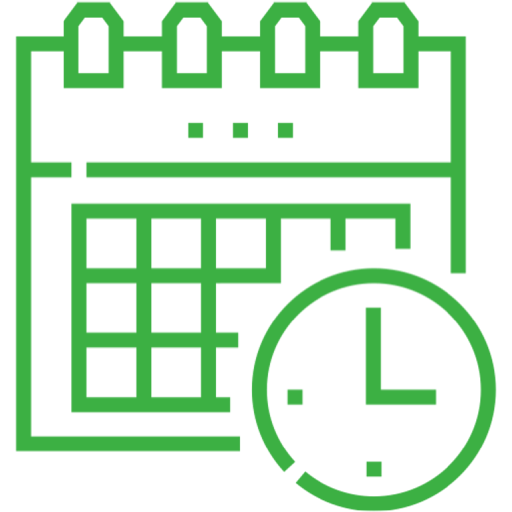
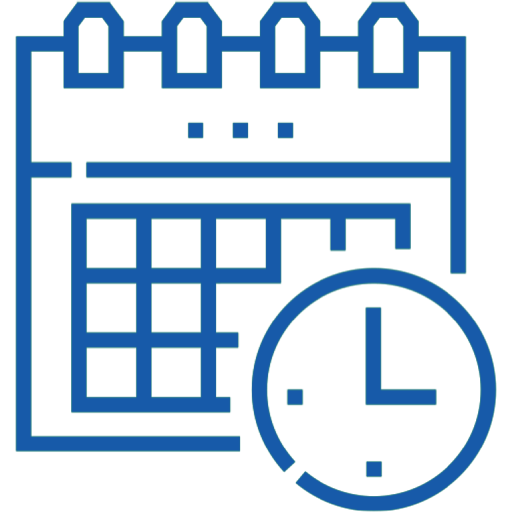
init old - docnote

diff --git a/src/main/webapp/Scripts/Main.js b/src/main/webapp/Scripts/Main.js
@@ -6,10 +6,10 @@ const _GasEnabled = true;
 const _LiveEnabled = true;
 
 //LIVE
-//const _ServiceURL = _GasEnabled ? "https://clinic.medica.lk/API" : "http://api.medica.gq";
+const _ServiceURL = _GasEnabled ? "https://clinic.medica.lk/API" : "http://api.medica.gq";
 
 //TEST
-const _ServiceURL = _LiveEnabled ? "https://ayu-api.medica.lk" : "http://api.medica.gq";
+// const _ServiceURL = _LiveEnabled ? "https://ayu-api.medica.lk" : "http://api.medica.gq";
 
 //File Upload URL
 /*const _FileUploadURL = "https://utilities.mobios.gq/Uploader";*/
@@ -60,7 +60,7 @@ var _AppointmentNumber;
 var _AppointmentDetails;
 var _AppointmentSessionId;
 var _AppointmentPatientId;
-var _AppointmentDoctorName; 
+var _AppointmentDoctorName;
 var _AppointmentPatientName;
 var _ApoointmentHeadingTitle;
 
@@ -83,7 +83,7 @@ var _NurseFirstName;
 const ServiceMethods =
 {
     OTPSend: "OTP/Send",
-    UserPost: "User/Post", 
+    UserPost: "User/Post",
     DoctorGet: "Doctor/Get/",
     SavePatient: "Patient/Save",
     Login: "Authenticate/Login",
@@ -95,7 +95,7 @@ const ServiceMethods =
     SessionGet: "Session/GET/",
     SessionsGet: "Session/GetSessions",
     SessionGetByDate: "Session/GetByDate",
-    NextAppoinment: "Appointment/GetNext", 
+    NextAppoinment: "Appointment/GetNext",
     GetAppoinment: "Appointment/GetAppointment",
     SaveAppoinmnet: "Appointment/Post",
     SaveAnalaytics: "MedicalAnalytic/Save",
@@ -198,25 +198,25 @@ var HideLoader = function ()
 function InitRequestHandler()
 {
     _UserId = getCookie("UserId");
-   
+
     let Headers = new Array();
 
     if (_UserId !== undefined && _UserId !== null && _UserId !== "" && parseInt(_UserId) > 0)
         Headers.push(new HttpHeader("UserId", _UserId));
 
     if (_PatientId !== null && _PatientId !== undefined && _PatientId !== "")
-        Headers.push(new HttpHeader("PatientId", _PatientId));   
+        Headers.push(new HttpHeader("PatientId", _PatientId));
 
     _Request = GetRequest(_ServiceURL, Headers);
 
    //_Request = new Request(_ServiceURL, new Array(), GlobalFail);
- 
+
     _HttpRequestMultiPartWithoutAsync = new HttpRequestMultiPartWithoutAsync(_ServiceURL, new Array(), GlobalFail);
 
     //Comman File Upload-Nurse
-    
+
     _HttpRequestMultiPartWithoutAsync.Headers = _Request.Headers;
-  
+
 }
 
 /*===========================
@@ -250,7 +250,7 @@ function ValidateFields(Selector)
 }
 
 /**
- * 
+ *
  * @param {string} Message
  * @param {MessageTypes} Type
  * @param {string} Title
@@ -298,7 +298,7 @@ function ShowImagePopup(Url)
 		Event Handlers
 ===========================*/
 function Page_Load()
-{   
+{
     Wait(
     function ()
     {

diff --git a/src/main/webapp/dist-assets/css/themes/ChangeColor.css b/src/main/webapp/dist-assets/css/themes/ChangeColor.css
@@ -3,33 +3,33 @@
 }
 
 .btn-primary{
-    background: #3CB043 !important;
+    background: #175aa9 !important;
 }
 
 .btn-info, .btn-outline-info {
-    border-color: #75e07c !important;
-    background: #3CB043 !important;
+    border-color: #7583e0 !important;
+    background: #175aa9 !important;
 }
 
 .btn-primary, .btn-outline-primary {
-    border-color: #75e07c !important;
+    border-color: #7583e0 !important;
 }
 
 .btn-info:hover, .btn-outline-info:hover {
-    background: #75e07c;
-    box-shadow: 0 8px 25px -8px #75e07c;
+    background: #7583e0;
+    box-shadow: 0 8px 25px -8px #7583e0;
 }
 
 .btn-primary:hover, .btn-outline-primary:hover {
-    background: #75e07c;
-    box-shadow: 0 8px 25px -8px #75e07c;
+    background: #7583e0;
+    box-shadow: 0 8px 25px -8px #7583e0;
 }
 
 
 .medicanurse{
-width: 15%;
+    width: 15%;
 }
 
 .docnote{
-width: 40%;
+    width: 40%;
 }

diff --git a/src/main/webapp/Scripts/Views.js b/src/main/webapp/Scripts/Views.js
@@ -207,7 +207,7 @@ function SiteNavigation()
         let DropDownRemainder = new Div(undefined, "dropown");
         let DivBadgeTop = new Div("dropdownNotification", "badge-top-container", [new Attribute(_AttributeDataToggle, "dropdown"), new Attribute(_AttributeAriaHaspopup, "true"), new Attribute(_AttributeAriaExpand, "false")]);
         DropDownRemainder.appendChild(DivBadgeTop);
-        let BellIcon = new Span(undefined, undefined, "i-Bell header-icon",[new Attribute("style", "color: #3CB043;")]);
+        let BellIcon = new Span(undefined, undefined, "i-Bell header-icon",[new Attribute("style", "color: #175aa9 ;")]);
         DivBadgeTop.appendChild(BellIcon);
         DivRightHeaderPart.appendChild(DropDownRemainder);
 
